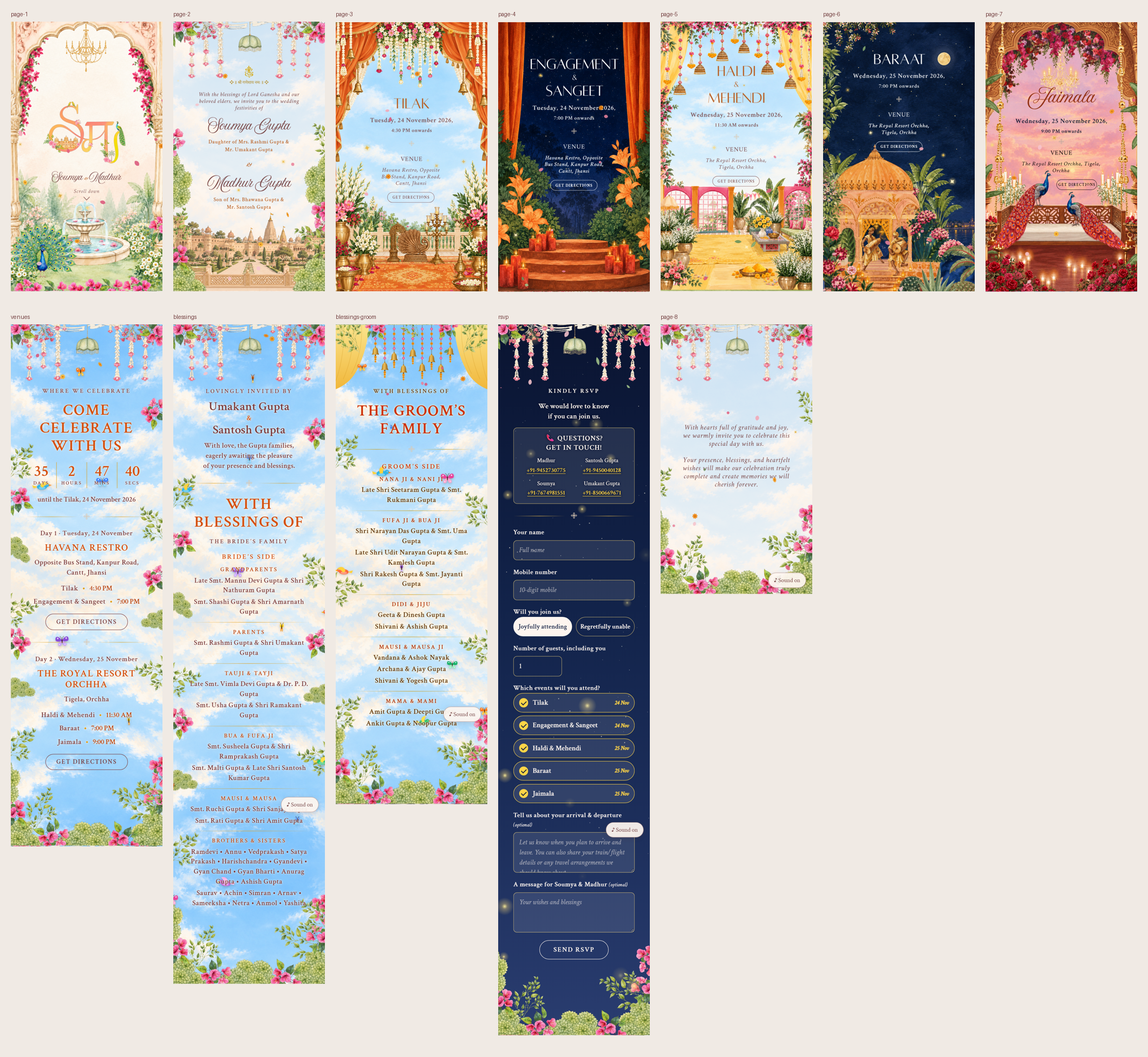
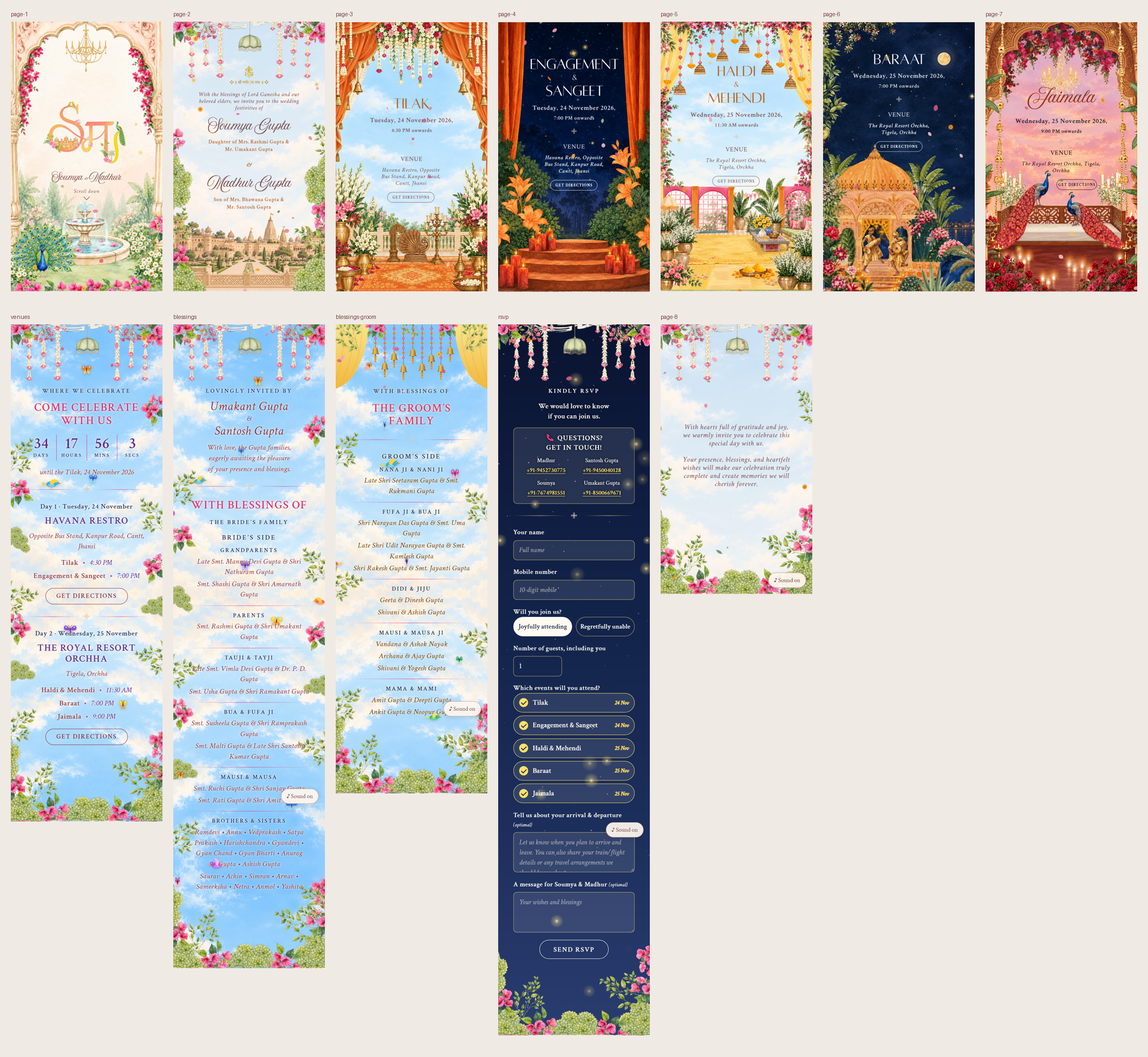
Website sections: italic body text, smaller pink headings, brighter colours, no orange text (purple names, night-blue labels, pink lines)

diff --git a/Website/index.html b/Website/index.html
@@ -106,7 +106,7 @@ html.locked { overflow: hidden; }
   text-shadow: var(--shadow); }
 .web form, .web .btn { text-shadow: none; }
 .web .label { margin: 0; font-size: 4cqw; letter-spacing: .2em; text-transform: uppercase; color: var(--ink); font-weight: 600; }
-.web h2 { margin: 0; font-weight: 600; font-size: 10.5cqw; line-height: 1.12; color: var(--accent); letter-spacing: .05em; text-transform: uppercase; text-wrap: balance; }
+.web h2 { margin: 0; font-weight: 600; font-size: 7.6cqw; line-height: 1.12; color: #d93774; letter-spacing: .05em; text-transform: uppercase; text-wrap: balance; }
 .web h3 { margin: 0; font-weight: 600; font-size: 6.4cqw; line-height: 1.15; color: var(--accent); letter-spacing: .06em; text-transform: uppercase; }
 .web .lead { margin: 0 auto; max-width: 30em; font-weight: 600; font-size: 4.6cqw; letter-spacing: .02em; text-wrap: balance; }
 .web .divider { display: flex; align-items: center; gap: 3cqw; margin: 1cqw 0; }
@@ -191,16 +191,16 @@ html.locked { overflow: hidden; }
 .web dt { color: var(--accent2); font-size: 3.8cqw; font-weight: 600; letter-spacing: .18em; text-transform: uppercase; }
 .web dd { margin: 0; font-size: 4.7cqw; line-height: 1.4; font-weight: 600; letter-spacing: .02em; }
 /* one palette per section, taken from the cards: day sky (Tilak), starry night (Engagement), sunset (Jaimala), marigold (Haldi) */
-.theme-day { --ink: #7a3a3a; --accent: #d4500e; --accent2: #b8420c; --gold: #e0a01c; --paper: #fdf5ef; --line: rgba(120,70,70,.6); --line2: rgba(120,70,70,.4);
+.theme-day { --ink: #8a3340; --accent: #e65a0f; --accent2: #c9470a; --gold: #f0ae1c; --paper: #fdf5ef; --line: rgba(120,70,70,.6); --line2: rgba(120,70,70,.4);
   --hover: rgba(120,70,70,.12); --field: rgba(255,255,255,.55); --field2: rgba(255,255,255,.4); --field-ink: #4f2c2c; --ph: rgba(120,70,70,.6);
   --shadow: 0 0 1.4cqw rgba(253,245,239,.95), 0 0 .5cqw rgba(253,245,239,.9); }
-.theme-night { --ink: #fdf5ef; --accent: #ffd447; --accent2: #ffd447; --gold: #f2c04a; --paper: #0f1d40; --line: rgba(247,215,122,.7); --line2: rgba(247,215,122,.4);
+.theme-night { --ink: #fffaf2; --accent: #ffe066; --accent2: #ffe066; --gold: #f7cc55; --paper: #0f1d40; --line: rgba(247,215,122,.7); --line2: rgba(247,215,122,.4);
   --hover: rgba(247,215,122,.16); --field: rgba(255,255,255,.1); --field2: rgba(255,255,255,.1); --field-ink: #fdf5ef; --ph: rgba(253,245,239,.55);
   --shadow: 0 0 1.4cqw rgba(6,15,38,.9), 0 0 .5cqw rgba(6,15,38,.8); }
 .theme-dusk { --ink: #fff3ea; --accent: #ffd98a; --accent2: #ffd98a; --gold: #f0b95a; --paper: #32145e; --line: rgba(255,217,138,.75); --line2: rgba(255,217,138,.45);
   --hover: rgba(255,217,138,.18); --field: rgba(255,255,255,.12); --field2: rgba(255,255,255,.1); --field-ink: #fff3ea; --ph: rgba(255,243,234,.6);
   --shadow: 0 0 1.4cqw rgba(50,10,70,.9), 0 0 .5cqw rgba(50,10,70,.85); }
-.theme-haldi { --ink: #5a2e0a; --accent: #cc2f08; --accent2: #aa2808; --gold: #d19a08; --paper: #fff6d6; --line: rgba(94,52,16,.55); --line2: rgba(94,52,16,.35);
+.theme-haldi { --ink: #6b3510; --accent: #dd3510; --accent2: #b82a0a; --gold: #e0a80a; --paper: #fff6d6; --line: rgba(94,52,16,.55); --line2: rgba(94,52,16,.35);
   --hover: rgba(94,52,16,.12); --field: rgba(255,251,230,.65); --field2: rgba(255,251,230,.5); --field-ink: #3b200a; --ph: rgba(94,52,16,.55);
   --shadow: 0 0 1.4cqw rgba(255,246,205,.95), 0 0 .5cqw rgba(255,246,205,.9); }
 .theme-night .sky { background: linear-gradient(180deg, #0a1431 0%, #12234a 40%, #1d2f5c 72%, #2a3d70 100%); }
@@ -239,6 +239,16 @@ html.locked { overflow: hidden; }
 @keyframes flap { from { transform: scaleX(1); } to { transform: scaleX(.2); } }
 @keyframes wing { from { transform: rotate(-24deg); } to { transform: rotate(26deg); } }
 @media (prefers-reduced-motion: reduce) { .web .crit { display: none; } }
+/* the venues and both blessings pages: body text in Crimson italic, like the venue lines on the Baraat and Jaimala cards */
+:is(#venues, #blessings, #blessings-groom) :is(.lead, .addr, .count-note, dd, .hosts, .events .t) { font-style: italic; font-weight: 400; letter-spacing: .015em; }
+:is(#venues, #blessings, #blessings-groom) :is(.lead, .addr, .count-note) { font-size: 4.9cqw; }
+:is(#venues, #blessings, #blessings-groom) dd { font-size: 5cqw; }
+:is(#venues, #blessings, #blessings-groom) .events .t { font-size: 4.8cqw; }
+:is(#venues, #blessings, #blessings-groom) .hosts { font-size: 8.4cqw; }
+/* small headings (labels, day lines, relation tags, countdown captions) in the card's night blue: strong contrast on the sky */
+:is(#venues, #blessings, #blessings-groom) :is(.label, .band, dt, .count span) { color: #1d2f5c; }
+/* no orange on these three pages: venue names, numbers and times in deep purple, lines and dots in pink */
+#venues, #blessings, #blessings-groom { --accent: #5a2d8a; --accent2: #5a2d8a; --gold: #d9468a; }
 [hidden] { display: none !important; }
 </style>
 </head>

diff --git a/Source/pipeline/build.py b/Source/pipeline/build.py
@@ -755,7 +755,7 @@ html.locked {{ overflow: hidden; }}
   text-shadow: var(--shadow); }}
 .web form, .web .btn {{ text-shadow: none; }}
 .web .label {{ margin: 0; font-size: 4cqw; letter-spacing: .2em; text-transform: uppercase; color: var(--ink); font-weight: 600; }}
-.web h2 {{ margin: 0; font-weight: 600; font-size: 10.5cqw; line-height: 1.12; color: var(--accent); letter-spacing: .05em; text-transform: uppercase; text-wrap: balance; }}
+.web h2 {{ margin: 0; font-weight: 600; font-size: 7.6cqw; line-height: 1.12; color: #d93774; letter-spacing: .05em; text-transform: uppercase; text-wrap: balance; }}
 .web h3 {{ margin: 0; font-weight: 600; font-size: 6.4cqw; line-height: 1.15; color: var(--accent); letter-spacing: .06em; text-transform: uppercase; }}
 .web .lead {{ margin: 0 auto; max-width: 30em; font-weight: 600; font-size: 4.6cqw; letter-spacing: .02em; text-wrap: balance; }}
 .web .divider {{ display: flex; align-items: center; gap: 3cqw; margin: 1cqw 0; }}
@@ -840,16 +840,16 @@ html.locked {{ overflow: hidden; }}
 .web dt {{ color: var(--accent2); font-size: 3.8cqw; font-weight: 600; letter-spacing: .18em; text-transform: uppercase; }}
 .web dd {{ margin: 0; font-size: 4.7cqw; line-height: 1.4; font-weight: 600; letter-spacing: .02em; }}
 /* one palette per section, taken from the cards: day sky (Tilak), starry night (Engagement), sunset (Jaimala), marigold (Haldi) */
-.theme-day {{ --ink: #7a3a3a; --accent: #d4500e; --accent2: #b8420c; --gold: #e0a01c; --paper: #fdf5ef; --line: rgba(120,70,70,.6); --line2: rgba(120,70,70,.4);
+.theme-day {{ --ink: #8a3340; --accent: #e65a0f; --accent2: #c9470a; --gold: #f0ae1c; --paper: #fdf5ef; --line: rgba(120,70,70,.6); --line2: rgba(120,70,70,.4);
   --hover: rgba(120,70,70,.12); --field: rgba(255,255,255,.55); --field2: rgba(255,255,255,.4); --field-ink: #4f2c2c; --ph: rgba(120,70,70,.6);
   --shadow: 0 0 1.4cqw rgba(253,245,239,.95), 0 0 .5cqw rgba(253,245,239,.9); }}
-.theme-night {{ --ink: #fdf5ef; --accent: #ffd447; --accent2: #ffd447; --gold: #f2c04a; --paper: #0f1d40; --line: rgba(247,215,122,.7); --line2: rgba(247,215,122,.4);
+.theme-night {{ --ink: #fffaf2; --accent: #ffe066; --accent2: #ffe066; --gold: #f7cc55; --paper: #0f1d40; --line: rgba(247,215,122,.7); --line2: rgba(247,215,122,.4);
   --hover: rgba(247,215,122,.16); --field: rgba(255,255,255,.1); --field2: rgba(255,255,255,.1); --field-ink: #fdf5ef; --ph: rgba(253,245,239,.55);
   --shadow: 0 0 1.4cqw rgba(6,15,38,.9), 0 0 .5cqw rgba(6,15,38,.8); }}
 .theme-dusk {{ --ink: #fff3ea; --accent: #ffd98a; --accent2: #ffd98a; --gold: #f0b95a; --paper: #32145e; --line: rgba(255,217,138,.75); --line2: rgba(255,217,138,.45);
   --hover: rgba(255,217,138,.18); --field: rgba(255,255,255,.12); --field2: rgba(255,255,255,.1); --field-ink: #fff3ea; --ph: rgba(255,243,234,.6);
   --shadow: 0 0 1.4cqw rgba(50,10,70,.9), 0 0 .5cqw rgba(50,10,70,.85); }}
-.theme-haldi {{ --ink: #5a2e0a; --accent: #cc2f08; --accent2: #aa2808; --gold: #d19a08; --paper: #fff6d6; --line: rgba(94,52,16,.55); --line2: rgba(94,52,16,.35);
+.theme-haldi {{ --ink: #6b3510; --accent: #dd3510; --accent2: #b82a0a; --gold: #e0a80a; --paper: #fff6d6; --line: rgba(94,52,16,.55); --line2: rgba(94,52,16,.35);
   --hover: rgba(94,52,16,.12); --field: rgba(255,251,230,.65); --field2: rgba(255,251,230,.5); --field-ink: #3b200a; --ph: rgba(94,52,16,.55);
   --shadow: 0 0 1.4cqw rgba(255,246,205,.95), 0 0 .5cqw rgba(255,246,205,.9); }}
 .theme-night .sky {{ background: linear-gradient(180deg, #0a1431 0%, #12234a 40%, #1d2f5c 72%, #2a3d70 100%); }}
@@ -888,6 +888,16 @@ html.locked {{ overflow: hidden; }}
 @keyframes flap {{ from {{ transform: scaleX(1); }} to {{ transform: scaleX(.2); }} }}
 @keyframes wing {{ from {{ transform: rotate(-24deg); }} to {{ transform: rotate(26deg); }} }}
 @media (prefers-reduced-motion: reduce) {{ .web .crit {{ display: none; }} }}
+/* the venues and both blessings pages: body text in Crimson italic, like the venue lines on the Baraat and Jaimala cards */
+:is(#venues, #blessings, #blessings-groom) :is(.lead, .addr, .count-note, dd, .hosts, .events .t) {{ font-style: italic; font-weight: 400; letter-spacing: .015em; }}
+:is(#venues, #blessings, #blessings-groom) :is(.lead, .addr, .count-note) {{ font-size: 4.9cqw; }}
+:is(#venues, #blessings, #blessings-groom) dd {{ font-size: 5cqw; }}
+:is(#venues, #blessings, #blessings-groom) .events .t {{ font-size: 4.8cqw; }}
+:is(#venues, #blessings, #blessings-groom) .hosts {{ font-size: 8.4cqw; }}
+/* small headings (labels, day lines, relation tags, countdown captions) in the card's night blue: strong contrast on the sky */
+:is(#venues, #blessings, #blessings-groom) :is(.label, .band, dt, .count span) {{ color: #1d2f5c; }}
+/* no orange on these three pages: venue names, numbers and times in deep purple, lines and dots in pink */
+#venues, #blessings, #blessings-groom {{ --accent: #5a2d8a; --accent2: #5a2d8a; --gold: #d9468a; }}
 [hidden] {{ display: none !important; }}
 </style>
 </head>
